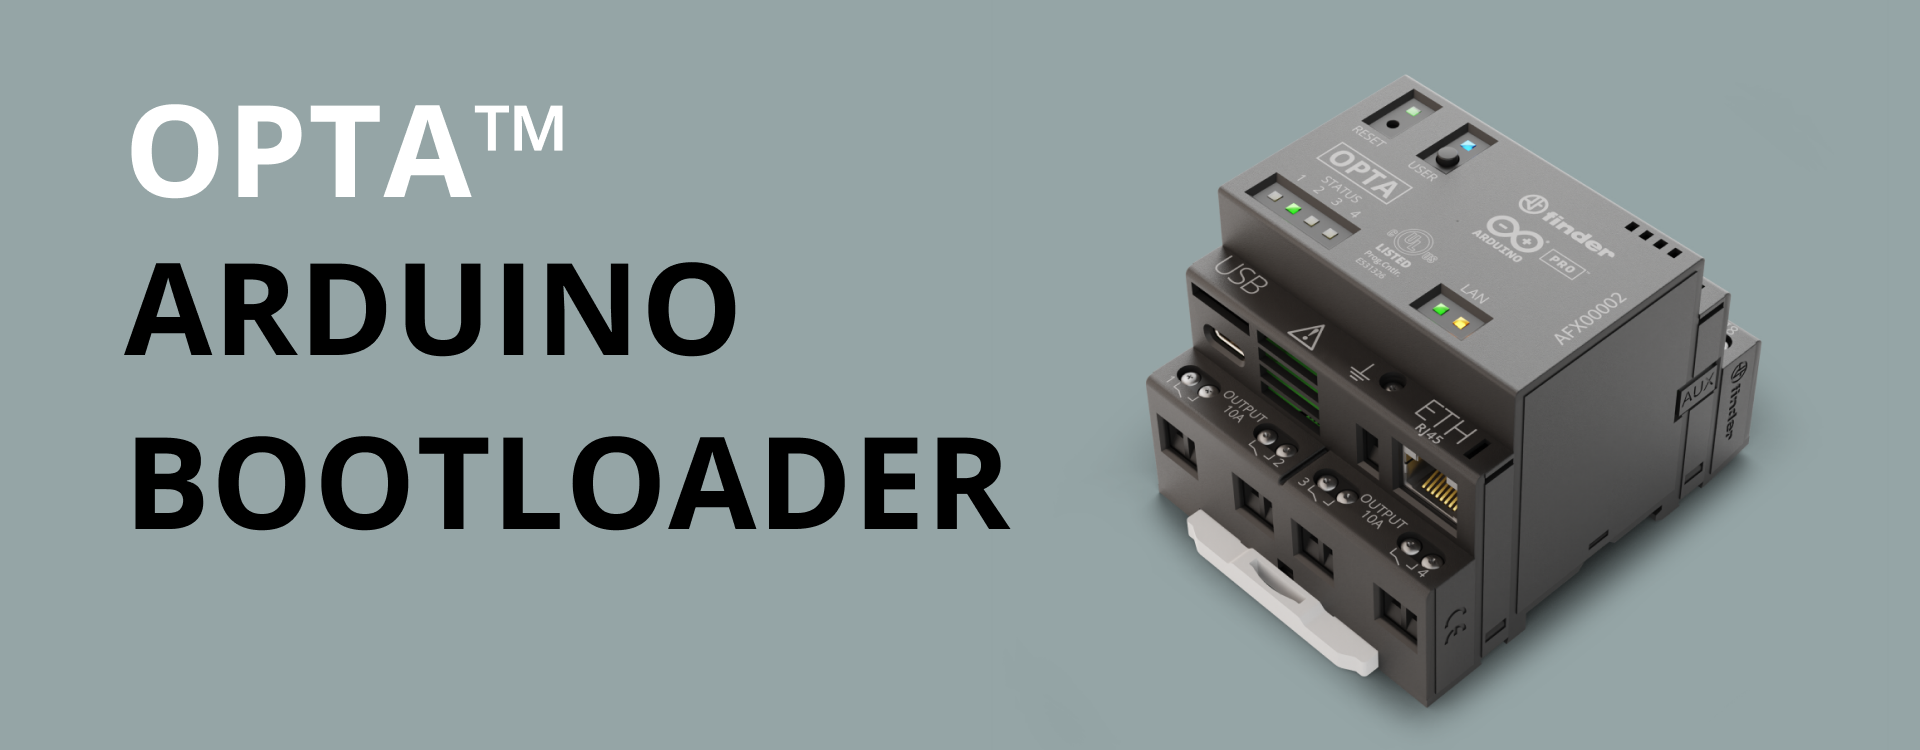
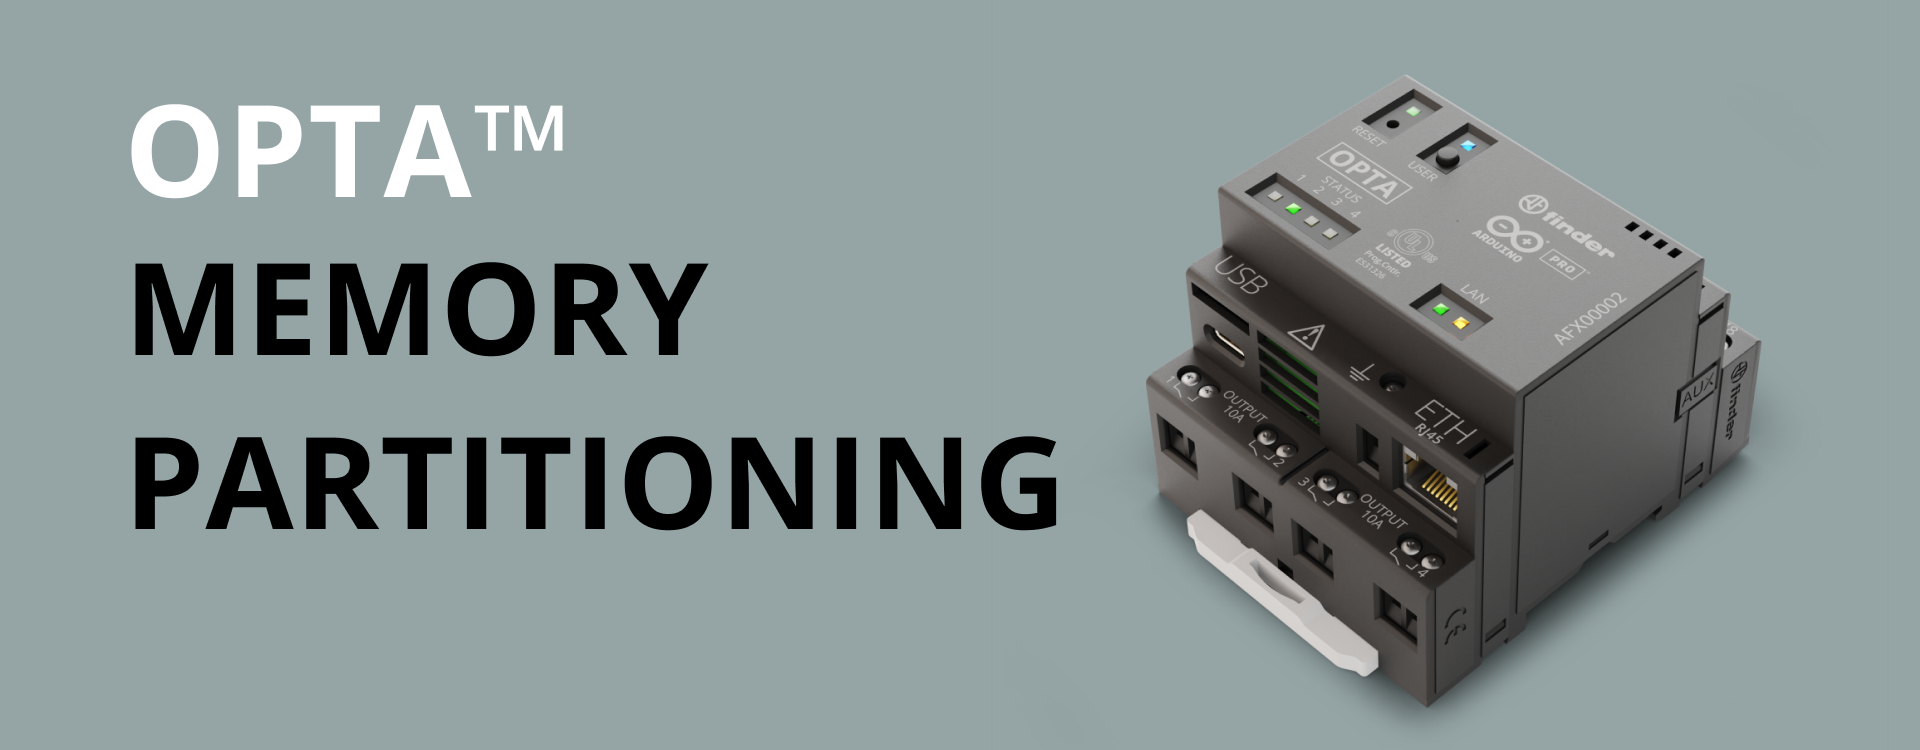
Content and graphics update

Changed region(s): [[0.0625, 0.5827, 0.5625, 0.7053], [0.0625, 0.3373, 0.4062, 0.4907]]

diff --git a/content/hardware/07.opta/opta-family/opta/tutorials/memory-partitioning/content.md b/content/hardware/07.opta/opta-family/opta/tutorials/memory-partitioning/content.md
@@ -19,7 +19,7 @@ hardware:
 
 The Opta™ is a secure, easy-to-use micro Programmable Logic Controller (PLC) with Industrial Internet of Things (IIoT) capabilities. It can be programmed with the [Arduino PLC IDE](https://www.arduino.cc/pro/software-plc-ide/), simplifying PLC programming through any of the five programming languages defined by the IEC 61131-3 standard (Ladder, Functional Block Diagram, Structured Text, Sequential Function Chart, or Instruction List). Additionally, the Opta™ is compatible with other tools from the Arduino ecosystem, such as the [Arduino IDE](https://www.arduino.cc/en/software) and the Arduino programming language. In this tutorial, we will learn how to partition the memory of an Opta™ device, enabling the full range of its functionalities to be programmed using the Arduino IDE.
 
-![The Opta™ Memory Map.](assets/bootloader-introduction.png)
+![The Opta™ Memory Map.](assets/memory-partitioning-introduction.png)
 
 ## Goals
 
@@ -335,7 +335,7 @@ The sketch shown above performs four main tasks:
 
 4. **Display progress in the Arduino IDE Serial Monitor**: The sketch provides a visual indication of the progress of the flashing process using a built-in LED of the Opta™ device and displays messages through the Arduino IDE Serial Monitor to inform the user about the current status of the flashing process.
 
-To upload the code, click the **Verify** button to compile the sketch and check for errors; then click the **Upload** button to program the board with the sketch. 
+To upload the code, click the **Verify** button to compile the sketch and check for errors; then click the **Upload** button to program the device with the sketch. 
 
 ![Uploading a sketch to the Opta™ the Arduino IDE.](assets/arduino-ide-2.png)
 
